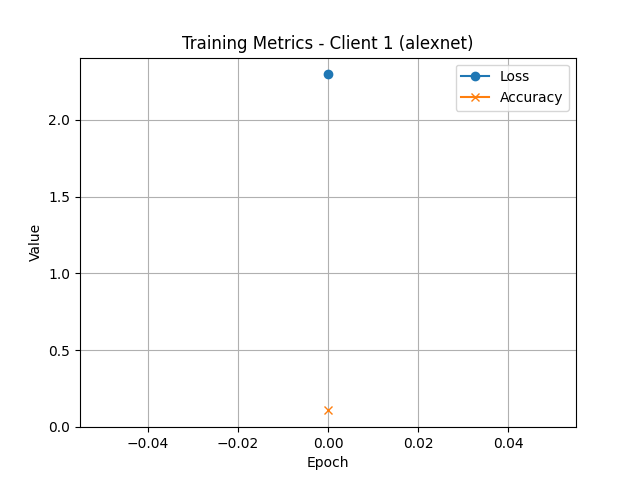
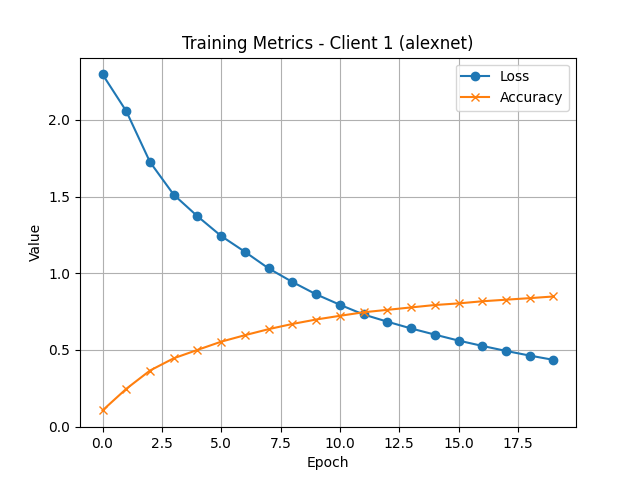
introducing GA

diff --git a/el-mqtt/server_el-mqtt.py b/el-mqtt/server_el-mqtt.py
@@ -68,7 +68,7 @@ def aggregate_with_GA(round_id):
     best_weights = run_genetic_algorithm(probs_list, clients_received[sorted(expected_clients)[0]][0]["labels"])
     acc = evaluate_weighted_probs(probs_list, best_weights, clients_received[sorted(expected_clients)[0]][0]["labels"])
     duration  = time.time() - t_start
-    print(f"[GA - RESULT] - Time Enlapsed: {duration:.3f} Acurácia final com pesos genéticos: {acc:.4f}")
+    print(f"[GA - RESULT] - Time Enlapsed: {duration:.3f} - Accuracy with GA: {acc:.4f}")
 
 
 

diff --git a/el-mqtt/optimization.py b/el-mqtt/optimization.py
@@ -20,6 +20,8 @@ def run_genetic_algorithm(probs_list, true_labels, population_size=20, generatio
     num_clients = len(probs_list)
     num_samples = len(true_labels)
 
+    print("Running GA...")
+
     # Geração inicial aleatória (pesos somando 1)
     def random_weights():
         w = np.random.rand(num_clients)
